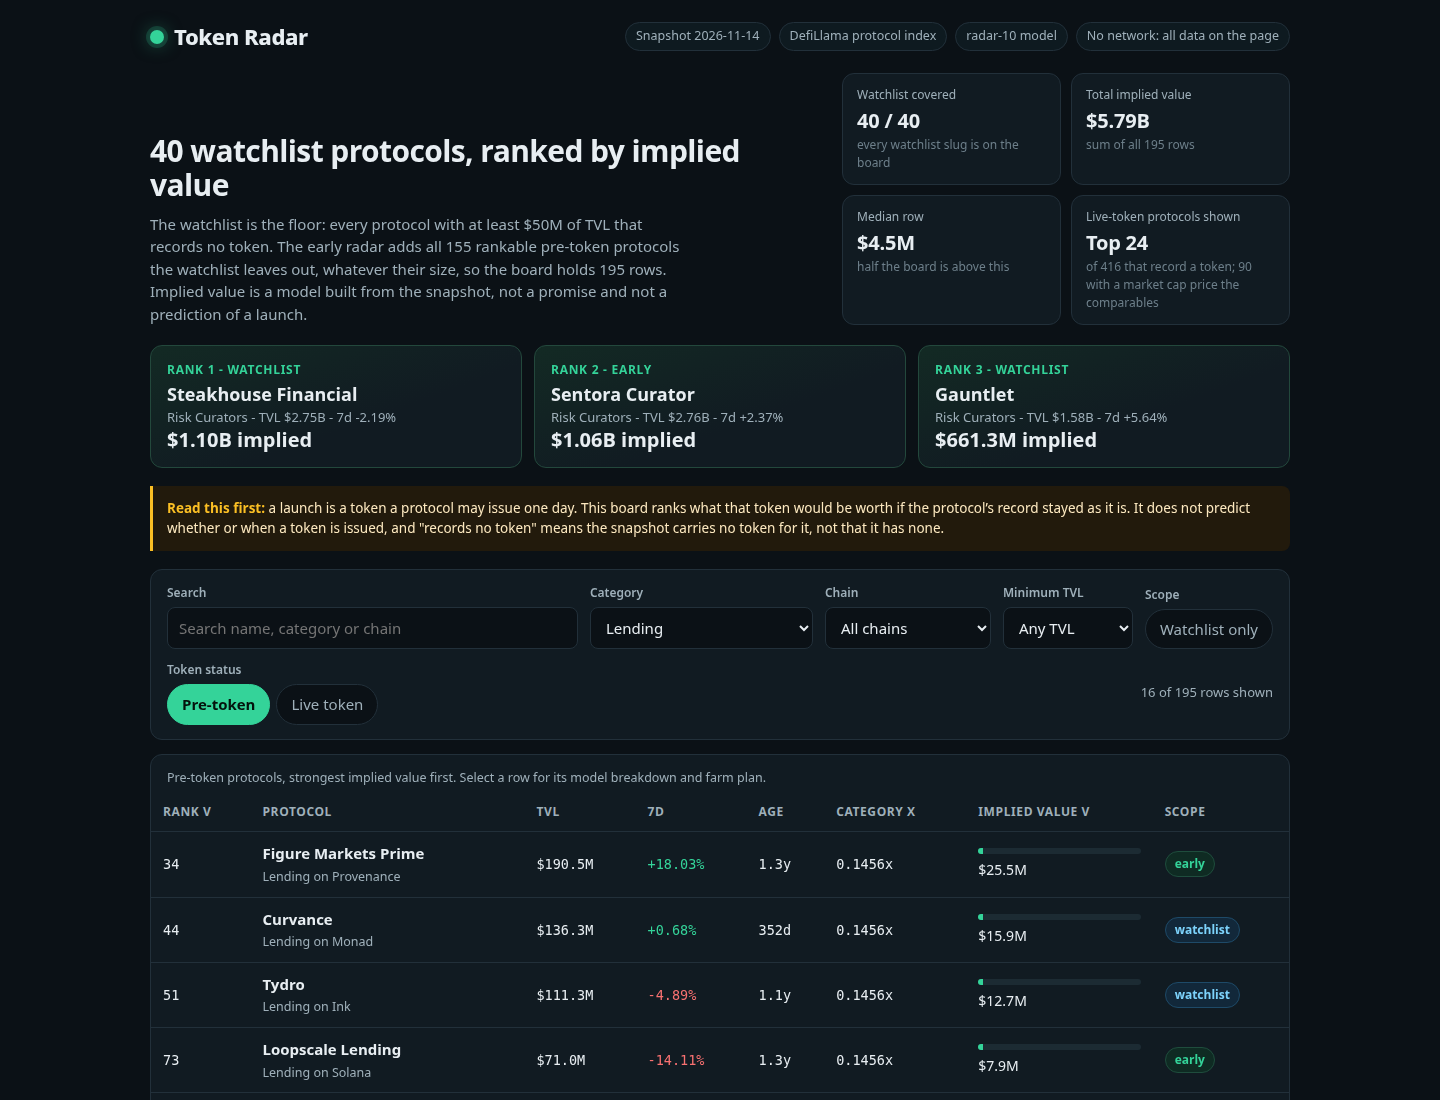
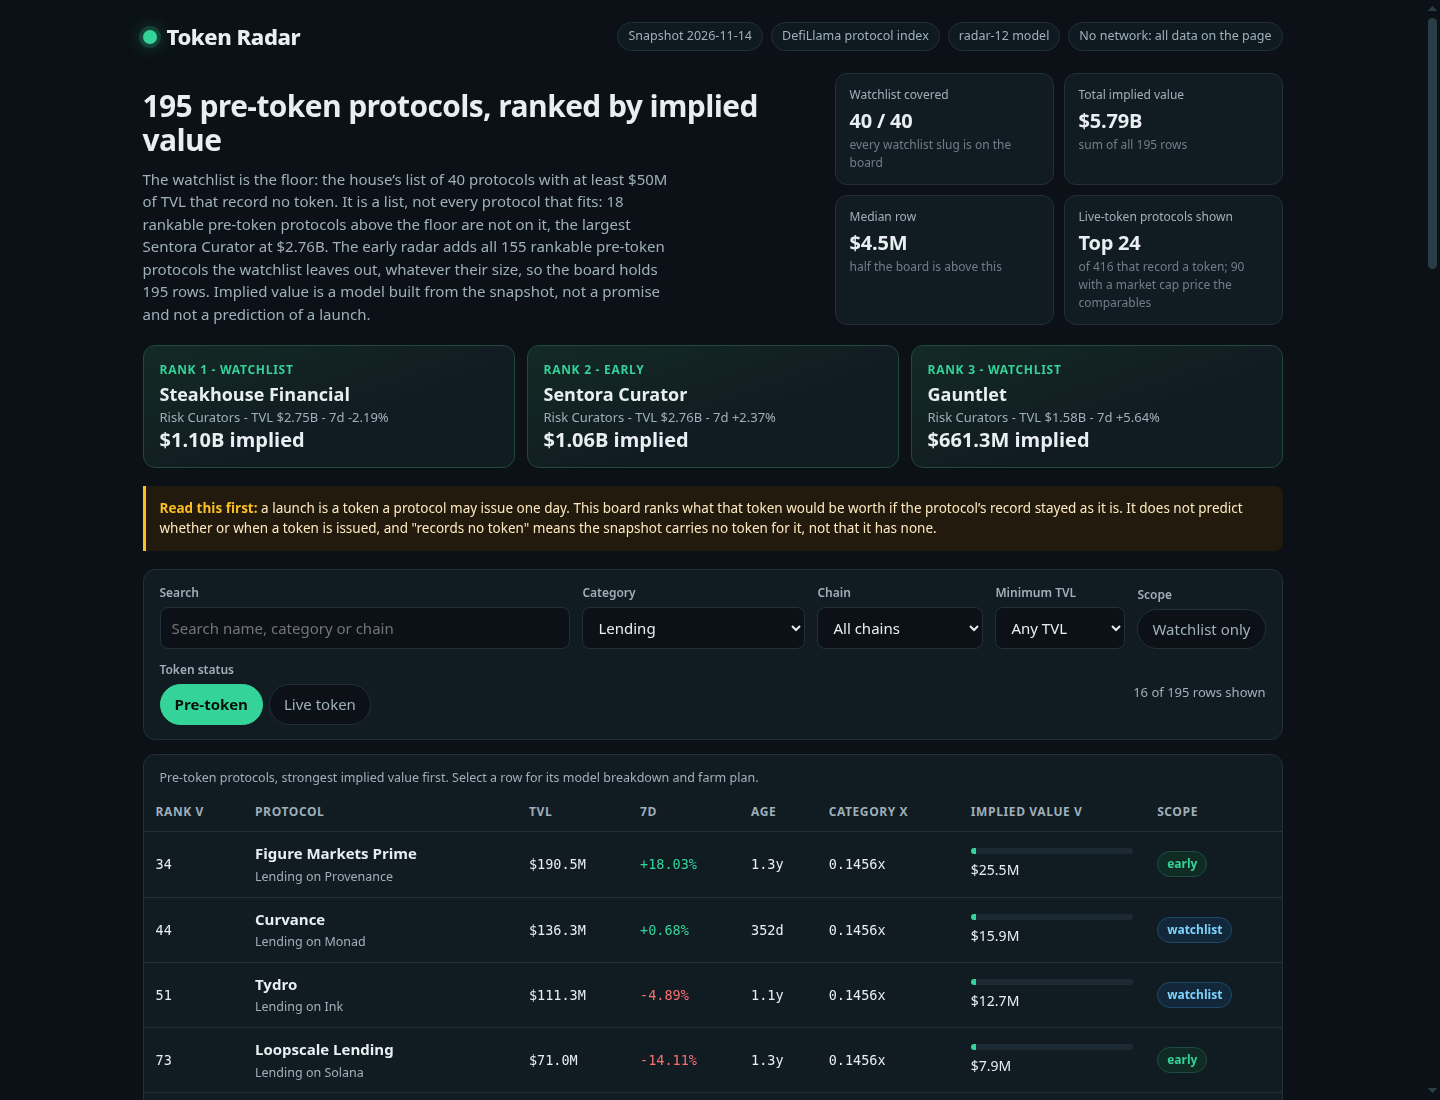
Token Radar radar-12: retaken screenshots and corrected watchlist wording
The screenshots still showed the radar-10 build: they were last
retaken in radar-10, so all three said 'radar-10 model' while the page
renders radar-11. They are retaken here, so the screenshots and the
code agree on the version.

The page's own heading and lede overstated the watchlist: the heading
said the board ranks 40 watchlist protocols, and the lede said the
watchlist is every protocol with at least $50M of TVL that records no
token, but the board itself shows 18 rankable protocols above the floor
the list leaves out, Sentora Curator at $2.76B the largest, because the
house's rule also leaves out a product of a protocol whose token already
trades, which the snapshot does not name. The heading now names the 195
rows the board ranks, and the lede names the list as the house's list
and counts the protocols above the floor it leaves out, from the board
itself. The board is unchanged: same 195 rows, ranks and implied values.

diff --git a/dashboard/app.js b/dashboard/app.js
@@ -1,4 +1,4 @@
-// Token Radar's dashboard (radar-11). It reads window.RADAR (written beside
+// Token Radar's dashboard (radar-12). It reads window.RADAR (written beside
 // dashboard/ by main.ts from the same board.json) and renders the ranked
 // board, the filters, a per-protocol detail view with the model's own
 // breakdown and the protocol's farm plan, and the live-token set kept apart.
@@ -197,10 +197,21 @@
   }
 
   function lede() {
+    // The watchlist is the house's list, not every protocol that fits its
+    // description: rankable protocols above the floor the list leaves out
+    // are counted here, because the house's rule also leaves out a product
+    // of a protocol whose token already trades, and the snapshot does not
+    // name the parent, so the list is what the rule produced. Calling the
+    // watchlist every protocol at or above the floor would be wrong on
+    // this snapshot: Sentora Curator sits at $2.76B and is not on it.
+    var aboveFloor = DATA.rows.filter(function (r) { return !r.watchlist && r.tvl_usd >= DATA.floor_usd; });
+    var biggest = aboveFloor.slice().sort(function (a, b) { return b.tvl_usd - a.tvl_usd; })[0];
+    var floorM = Math.round(DATA.floor_usd / 1e6);
+    var ledeText = 'The watchlist is the floor: the house\u2019s list of ' + DATA.watchlist_size + ' protocols with at least $' + floorM + 'M of TVL that record no token. It is a list, not every protocol that fits: ' + aboveFloor.length + ' rankable pre-token protocols above the floor are not on it' + (biggest ? ', the largest ' + biggest.name + ' at ' + fmtUsd(biggest.tvl_usd) : '') + '. The early radar adds all ' + DATA.early_size + ' rankable pre-token protocols the watchlist leaves out, whatever their size, so the board holds ' + DATA.board_size + ' rows. Implied value is a model built from the snapshot, not a promise and not a prediction of a launch.';
     return el('section', { class: 'lede' },
       el('div', null,
-        el('h1', { text: DATA.watchlist_size + ' watchlist protocols, ranked by implied value' }),
-        el('p', { text: 'The watchlist is the floor: every protocol with at least $' + Math.round(DATA.floor_usd / 1e6) + 'M of TVL that records no token. The early radar adds all ' + DATA.early_size + ' rankable pre-token protocols the watchlist leaves out, whatever their size, so the board holds ' + DATA.board_size + ' rows. Implied value is a model built from the snapshot, not a promise and not a prediction of a launch.' })
+        el('h1', { text: DATA.board_size + ' pre-token protocols, ranked by implied value' }),
+        el('p', { text: ledeText })
       ),
       el('div', { class: 'facts' },
         el('div', { class: 'fact' }, el('span', { text: 'Watchlist covered' }), el('b', { text: DATA.watchlist_size + ' / ' + DATA.watchlist_size }), el('small', { text: 'every watchlist slug is on the board' })),

diff --git a/lib/model.ts b/lib/model.ts
@@ -1,4 +1,4 @@
-// Token Radar's model (radar-11): one sealed snapshot in, one ranked board out.
+// Token Radar's model (radar-12): one sealed snapshot in, one ranked board out.
 //
 // The board covers every slug in the snapshot's watchlist (the floor, never a
 // ceiling) plus every other rankable pre-token protocol the watchlist leaves
@@ -122,7 +122,7 @@ export const MODEL: ModelConstants = {
 };
 
 /** The model's version label: the dashboard names it. */
-export const MODEL_VERSION = 'radar-11';
+export const MODEL_VERSION = 'radar-12';
 
 /** How many live-token protocols the Live token view carries, by market cap. */
 export const LIVE_ROWS = 24;

diff --git a/main.ts b/main.ts
@@ -1,4 +1,4 @@
-// Token Radar (radar-11): the entry program, Node 22, standard library only.
+// Token Radar (radar-12): the entry program, Node 22, standard library only.
 //
 // It reads the sealed snapshot from /input/snapshot.json (or --input
 // <file|dir>), scores every rankable pre-token protocol with the model in

diff --git a/README.md b/README.md
@@ -6,7 +6,23 @@ staked or bridged product of one that trades, ranks them by what their launch
 would be worth, and hands in a web dashboard with the board, a detail view
 for every protocol, filters, and a farm plan for each row.
 
-## The model (radar-11)
+## The model (radar-12)
+
+Radar-12 keeps radar-11's formula and every implied value, and fixes two
+things a reader could catch it on. First, the screenshots still showed the
+radar-10 build: they were last retaken in radar-10, so all three said
+"radar-10 model" while the page renders radar-11. They are retaken here,
+so the screenshots and the code agree on the version. Second, the page's
+own heading and lede overstated the watchlist: the heading said the board
+ranks 40 watchlist protocols, and the lede said the watchlist is every
+protocol with at least $50M of TVL that records no token, but the board
+itself shows 18 rankable protocols above the floor the list leaves out,
+Sentora Curator at $2.76B the largest, because the house's rule also
+leaves out a product of a protocol whose token already trades, which the
+snapshot does not name. The heading now names the 195 rows the board
+ranks, and the lede names the list as the house's list and counts the
+protocols above the floor it leaves out, from the board itself. The board
+is unchanged: same 195 rows, same ranks, same implied values.
 
 Radar-11 keeps radar-10's formula and every implied value, and fixes one
 place where the dashboard did not follow the rule radar-10 stated. The
